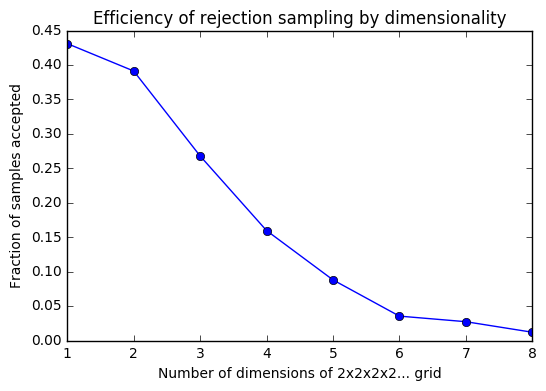
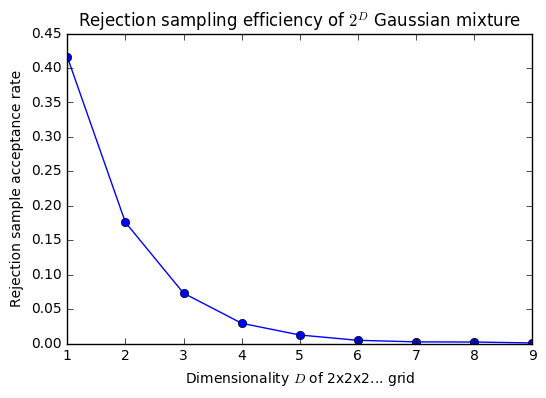
website updates

diff --git a/website/source/stylesheets/all.css b/website/source/stylesheets/all.css
@@ -10,6 +10,10 @@ img {
   max-width: 100%;
 }
 
+#results-whichbest img:first-of-type {
+  max-height: none;
+}
+
 .temporary-spacer {
   width: 100%;
   height: 5em;

diff --git a/website/source/_convergence.html.md b/website/source/_convergence.html.md
@@ -1,21 +1,56 @@
-Evaluating convergence is nontrivial because of the very same multimodality that makes our datasets difficult to sample. For our mixture of Gaussians, we take the following approach.
+Evaluating convergence is nontrivial because of the very same multimodality
+that makes our datasets difficult to sample. For our mixture of Gaussians, we
+take the following approach.
 
-We begin with an array of samples and corresponding iteration indexes. The iteration index is not implied by the sample ordering because we may have discarded rejection samples in between final samples in our chain. If we have multiple parallel chains, we combine samples by mergesorting indexes.
+We begin with an array of samples and corresponding iteration indexes. The
+iteration index is not implied by the sample ordering because we may have
+discarded rejection samples in between final samples in our chain. If we have
+multiple parallel chains, we combine samples by mergesorting indexes.
 
-We then take running averages across each sample dimension using a fast implementation of `cumsum` (cumulative sum) and dividing by the index in the array. This gives us an array of the cumulative sample average in each dimension at each iteration.
+We then take running averages across each sample dimension using a fast
+implementation of `cumsum` (cumulative sum) and dividing by the index in the
+array. This gives us an array of the cumulative sample average in each
+dimension at each iteration.
 
-We then subtract the overall mean of the mixture of Gaussians from the running sample averages and take the absolute value. This gives us absolute errors for each dimension at each iteration. Finally we sum across dimensions to obtain a total error by iteration:
+We then subtract the overall mean of the mixture of Gaussians from the running
+sample averages and take the absolute value. This gives us absolute errors for
+each dimension at each iteration. Finally we sum across dimensions to obtain a
+total error by iteration.
+
+From the central limit theorem, we know that the expected error of estimating
+a true mean from a mean across \\(N\\) samples should be
+
+$$
+\text{Mean estimation error}(N) = \frac{\sigma}{\sqrt{N}}
+$$
+
+If we take this to log-log space, then this becomes:
+
+$$
+\log(\text{Mean estimation error}(N)) = \log(\sigma) - \frac{1}{2}\log(N)
+$$
+
+This suggests that if we do a linear regression (in log-log space) to the log
+error vs. the number of iterations, like this:
 
 ![err-by-iter](err-by-iter.png)
 
-This error tends to fall like 1 over the iteration squared, consistently with the central limit theorem. Indeed, across sampling methods and independent trials, when we do a power-law fit to the resulting trend, we see a clustering around -0.5:
+then we should obtain a slope of around -0.5 and an intercept that corresponds
+to the inherent variance of both the distribution and the sampling method. As
+expected, across sampling methods and independent trials, we see a clustering
+of slopes around -0.5:
 
 ![slope-clust](slope-clust.png)
 
-However, the multiplicative factor of this power law decay, which in log-log space is the linear intercept, depends on the variance of the mixture model and the extent to which time is "dilated" by the inefficiency of our sampler.
-
-Since we are sampling the same distribution across methods, it makes sense to consider the intercept as the true rate of convergence, which is how we generated the speedup plot below:
+This suggests that we're following the central limit theorem, and we can
+somewhat justifiably take the linear intercept \\(\log(\sigma)\\) as a measure
+of how poorly we are converging. This quantity on its own is not that
+interpretable (although we could interpret it as the expected log error at 1
+sample), but by comparing how it changes as we vary parallelism, we can
+generate speedup plots like the ones above and this one below:
 
 ![speedup-comp](speedup-comp.png)
 
-However, we can also use our power law fit to extrapolate the time/iterations required to reach a specified convergence, which we do above (TODO link).
+However, we can also use our power law fit to simply extrapolate the
+time/iterations required to reach a specified convergence, which we do
+elsewhere.

diff --git a/website/source/_whichbest.html.md b/website/source/_whichbest.html.md
@@ -1,0 +1,13 @@
+The short answer? It depends (especially on dimensionality):
+
+![whichbest](which-meth-best.png)
+
+These results are for a grid with \\(2^\text{number of dimensions}\\) modes with a grid spacing of 25, and with each mode having a standard deviation of 4. Our teleporting algorithm is always at least as good as the best method, but it's not until we reach very high dimensions -- 9, which corresponds to \\(2^9=512\\) modes -- that it starts to outperform both.
+
+Those were plots for individual chains, but the main item of interest is how the results change with parallelism. Let's examine how the number of iterations until we reach a particular level of convergence (implementation details [below](#results-conv)) changes as we vary the number of _parallel_ runs (these results using our naive parallel implementation that does not parallelize the rejection sampling portion):
+
+![time2tol](time2tol.png)
+
+From these plots, the advantage of the teleporting sampler is clear, but what is also interesting is the difference in scaling behavior between the teleporting sampler and unaided Metropolis-Hastings (as well as how it varies with the tolerance). Because of the independence of its samples, rejection sampling is better able to exploit parallel resources even though its efficiency at 9 dimensions is only \\(\approx 0.0008\\) -- less than one tenth of one percent. Metropolis isn't significantly helped by having more parallel chains because each chain is individually biased; they need to reach a minimum length before they fully contribute. Our teleporting sampler appears to get the best of both worlds; it only needs to rejection sample about every 100 iterations, but it's fairly unbiased, so it scales well.
+
+When we need to reach a higher degree of precision, Metropolis-Hastings starts doing a little better compared to rejection sampling, even though the gap does start narrowing as we increase \\(p\\). Perhaps this is because the number of iterations per chain is several orders of magnitude higher, so each chain is closer to mixing.

diff --git a/website/source/_scaling.html.md b/website/source/_scaling.html.md
@@ -1,0 +1,5 @@
+Independently of inter-method differences, we can also analyze intra-method speedups (moving back into linear from log space):
+
+![speedup-comp](speedup-comp.png)
+
+We included some of these results above in the background section because they felt useful not just as results but as characterizations of the methods themselves. Essentially, rejection sampling is 
